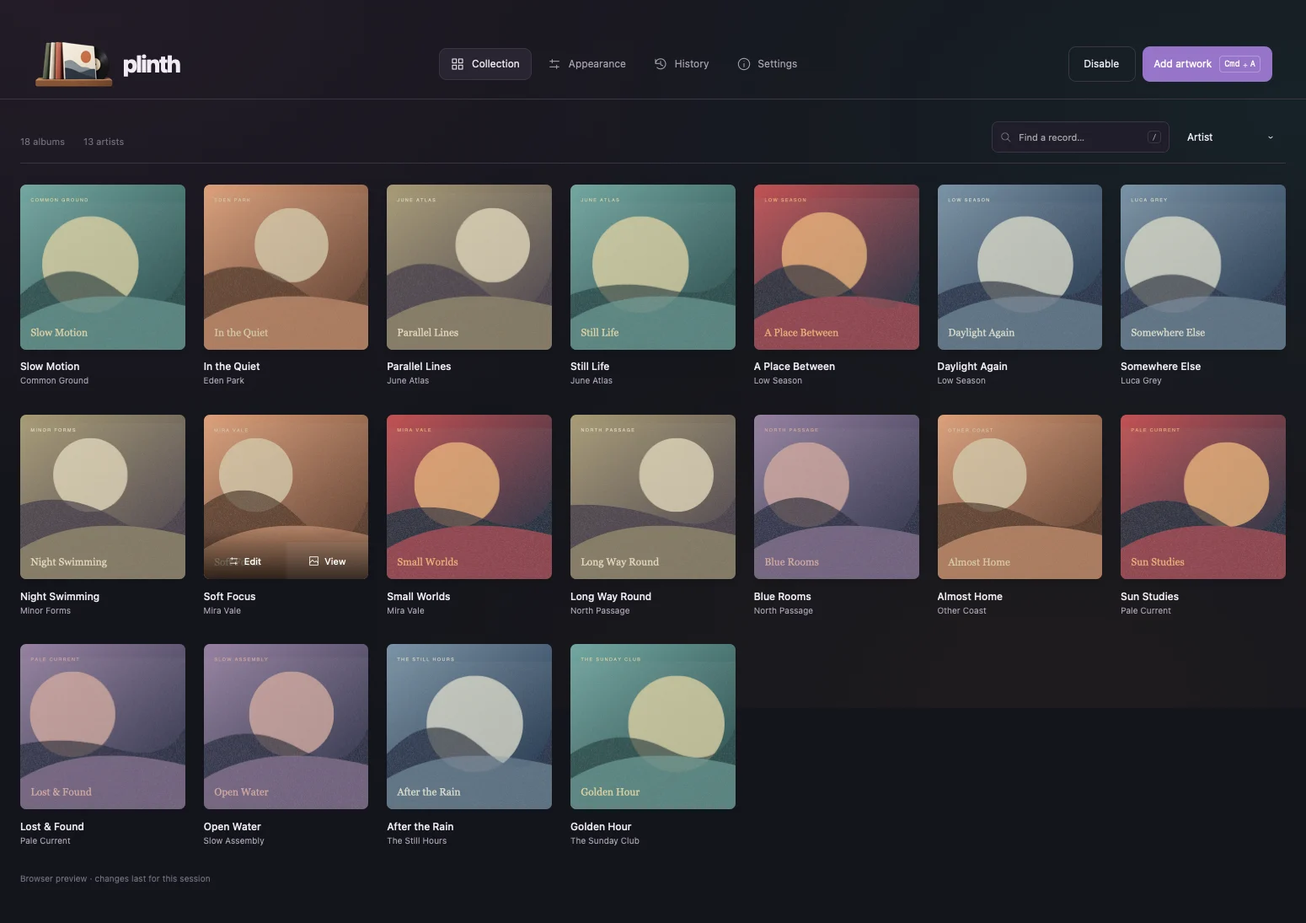
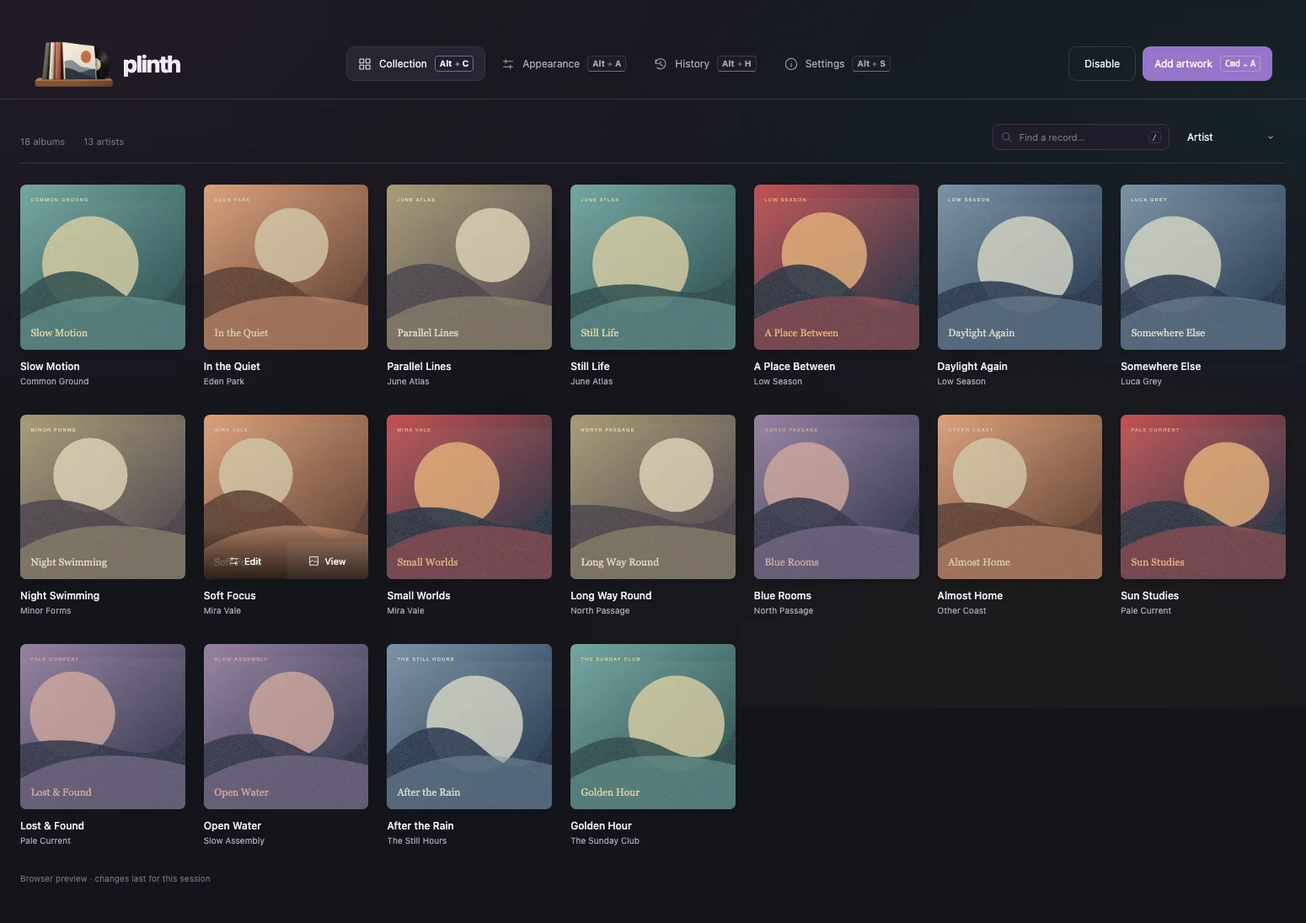
Add Alt letter shortcuts and badges to top navigation

diff --git a/src/app.css b/src/app.css
@@ -1,7 +1,7 @@
 *{box-sizing:border-box} :root{font-family:-apple-system,BlinkMacSystemFont,'Segoe UI',sans-serif;font-size:14px;color-scheme:dark;--background:radial-gradient(ellipse at 5% 0%,#58334d38,transparent 48%),radial-gradient(ellipse at 100% 15%,#28686829,transparent 44%),radial-gradient(ellipse at 80% 100%,#65482d21,transparent 48%),#14151c;--paper:#201d29e6;--paper-strong:#292531;--ink:#f0ebf3;--muted:#aaa1b3;--faint:#726d7e;--line:#3c3547;--accent:#b99ce7;--accent-bg:#9774c9;--danger:#ef9baa}
 :root[data-theme=light]{color-scheme:light;--background:radial-gradient(ellipse at 0% 0%,#efdce9,transparent 55%),radial-gradient(ellipse at 100% 10%,#dcefee,transparent 50%),#f7f5f3;--paper:#fffdfcd9;--paper-strong:#f0ebf1;--ink:#2b2632;--muted:#7f7387;--faint:#93899a;--line:#dfd6e4;--accent:#74509e;--accent-bg:#805ba9;--danger:#a94057}
 body{margin:0;background:var(--background);background-attachment:fixed;color:var(--ink);min-width:360px}button,input,select{font:inherit}button,select{cursor:pointer}button{display:inline-flex;align-items:center;justify-content:center;gap:9px;border:1px solid var(--line);border-radius:9px;background:transparent;color:var(--ink);padding:10px 14px;transition:background .15s,border-color .15s}button:hover:not(:disabled){background:var(--paper-strong);border-color:var(--faint)}button:disabled{opacity:.5;cursor:default}button.primary{background:var(--accent-bg);border-color:transparent;color:#fff}button.primary:hover:not(:disabled){background:color-mix(in srgb,var(--accent-bg) 85%,white)}button.icon-only{width:34px;height:34px;padding:7px;border-color:transparent;background:transparent}button.text-button{padding:0;border:0;color:var(--accent);background:none;font-size:12px}button:focus-visible,a:focus-visible,input:focus-visible,select:focus-visible{outline:1px solid var(--faint);outline-offset:2px}svg{display:block;flex:0 0 auto}h1,h2,h3,p{margin:0}h1{font-size:34px;font-weight:550;letter-spacing:-1.2px;line-height:1.3}h2{font-size:17px;font-weight:550;letter-spacing:-.3px}small{font-size:12px;color:var(--muted)}input,select{border:1px solid var(--line);background:var(--paper);color:var(--ink);border-radius:8px;padding:10px 12px;min-width:0}select{font-size:12px}label{display:grid;gap:8px;font-size:12px}a{color:inherit;text-decoration:none}kbd{font:10px ui-monospace,monospace;padding:3px 5px;border:1px solid var(--line);border-radius:4px;color:var(--muted)}kbd.shortcut{display:inline-flex;align-items:center;gap:3px;white-space:nowrap}.shortcut-plus{opacity:.75;transform:translateY(1.5px)}
-.titlebar{height:34px;padding:0 27px 0 86px;display:flex;align-items:center;justify-content:space-between;color:var(--faint);font-size:10px;letter-spacing:.2px;user-select:none}.local-indicator{display:flex;gap:6px;align-items:center}.local-indicator>span{width:4px;height:4px;border-radius:50%;background:#85b7a0}header{height:84px;border-bottom:1px solid var(--line);display:flex;align-items:center;justify-content:space-between;gap:24px;padding:0 40px}.header-actions{display:flex;align-items:stretch;gap:8px;flex-shrink:0}.header-actions>button{font-size:12px;padding:10px 13px}.brand{display:flex;align-items:center;gap:10px;font-size:28px;font-weight:760;letter-spacing:-1.4px}.brand-mark{--brand-logo-size:40px;display:flex;align-items:center;justify-content:center;flex-shrink:0;width:var(--brand-logo-size);height:40px}.brand-mark[data-logo="logo-1"]{--brand-logo-size:96px}.brand-mark[data-logo="logo-2"]{--brand-logo-size:72px;margin-right:-8px}.brand-mark svg{width:var(--brand-logo-size);height:var(--brand-logo-size);align-self:center}.version{font-size:9px;font-weight:400;letter-spacing:0;color:var(--faint);align-self:start;padding-top:6px}nav{display:flex;gap:5px}nav button{font-size:12px;border-color:transparent;padding:10px 13px;color:var(--muted)}nav button.active{background:var(--paper-strong);border-color:var(--line);color:var(--ink)}nav button svg{width:16px;height:16px}main{max-width:1440px;margin:0 auto;padding:40px 44px 0}.page-heading{display:flex;justify-content:space-between;align-items:center;gap:20px;margin-bottom:36px}.eyebrow{display:block;color:var(--faint);font-size:9px;letter-spacing:1.7px;font-weight:550;margin-bottom:10px}.page-heading p{margin-top:9px;font-size:13px;color:var(--muted);line-height:1.6}.status-pill{font-size:11px;border-radius:22px;padding:9px 13px;background:var(--paper);color:var(--muted);white-space:nowrap}.status-pill svg{width:12px;height:12px;margin-left:5px}.status-dot{width:6px;height:6px;border-radius:50%;background:#83c9ac;box-shadow:0 0 8px #83c9ac22}.paused .status-dot{background:var(--faint)}
+.titlebar{height:34px;padding:0 27px 0 86px;display:flex;align-items:center;justify-content:space-between;color:var(--faint);font-size:10px;letter-spacing:.2px;user-select:none}.local-indicator{display:flex;gap:6px;align-items:center}.local-indicator>span{width:4px;height:4px;border-radius:50%;background:#85b7a0}header{height:84px;border-bottom:1px solid var(--line);display:flex;align-items:center;justify-content:space-between;gap:24px;padding:0 40px}.header-actions{display:flex;align-items:stretch;gap:8px;flex-shrink:0}.header-actions>button{font-size:12px;padding:10px 13px}.brand{display:flex;align-items:center;gap:10px;font-size:28px;font-weight:760;letter-spacing:-1.4px}.brand-mark{--brand-logo-size:40px;display:flex;align-items:center;justify-content:center;flex-shrink:0;width:var(--brand-logo-size);height:40px}.brand-mark[data-logo="logo-1"]{--brand-logo-size:96px}.brand-mark[data-logo="logo-2"]{--brand-logo-size:72px;margin-right:-8px}.brand-mark svg{width:var(--brand-logo-size);height:var(--brand-logo-size);align-self:center}.version{font-size:9px;font-weight:400;letter-spacing:0;color:var(--faint);align-self:start;padding-top:6px}nav{display:flex;gap:5px}nav button{font-size:12px;border-color:transparent;padding:10px 13px;color:var(--muted)}nav button.active{background:var(--paper-strong);border-color:var(--line);color:var(--ink)}nav button>svg{width:16px;height:16px}main{max-width:1440px;margin:0 auto;padding:40px 44px 0}.page-heading{display:flex;justify-content:space-between;align-items:center;gap:20px;margin-bottom:36px}.eyebrow{display:block;color:var(--faint);font-size:9px;letter-spacing:1.7px;font-weight:550;margin-bottom:10px}.page-heading p{margin-top:9px;font-size:13px;color:var(--muted);line-height:1.6}.status-pill{font-size:11px;border-radius:22px;padding:9px 13px;background:var(--paper);color:var(--muted);white-space:nowrap}.status-pill svg{width:12px;height:12px;margin-left:5px}.status-dot{width:6px;height:6px;border-radius:50%;background:#83c9ac;box-shadow:0 0 8px #83c9ac22}.paused .status-dot{background:var(--faint)}
 .collection-toolbar{display:flex;align-items:center;justify-content:space-between;gap:20px;border-bottom:1px solid var(--line);margin-bottom:25px;min-height:52px}.collection-tabs{display:flex;align-items:center;gap:22px;align-self:stretch}.collection-meta{display:flex;align-items:center;font-size:11px;color:var(--faint)}.toolbar-right{display:flex;gap:10px;align-items:center;padding-bottom:10px}.toolbar-right select{border-color:transparent;background:transparent;padding-right:5px}.search{display:flex;align-items:center;gap:8px;border:1px solid var(--line);background:var(--paper);border-radius:7px;padding:0 9px;color:var(--faint)}.search>svg{width:14px;height:14px}.search input{width:145px;border:0;background:none;padding:8px 0;font-size:11px}.search kbd{padding:1px 4px;font-size:9px}.album-grid{display:grid;grid-template-columns:repeat(6,minmax(0,1fr));gap:26px 22px}.album-card{min-width:0;position:relative}.artwork{display:block;position:relative;width:100%;padding:0;border:0;border-radius:7px;background:var(--paper-strong);aspect-ratio:1;box-shadow:0 5px 10px #0002;overflow:hidden;transition:transform .2s,box-shadow .2s}.album-edit:hover .artwork{box-shadow:0 8px 20px #0004}.artwork img{width:100%;height:100%;object-fit:cover;display:block}.album-edit{display:block;width:100%;padding:0;border:0;border-radius:0;text-align:left}.album-edit:hover:not(:disabled){background:transparent}.artwork-edit{position:absolute;bottom:0;left:0;width:50%;height:44px;color:#fff;font-size:11px;display:flex;gap:6px;align-items:center;justify-content:center;opacity:0;transition:opacity .2s;z-index:1}.artwork::after{content:"";position:absolute;inset:auto 0 0;height:60px;background:linear-gradient(transparent,#000b);opacity:0;transition:opacity .2s;pointer-events:none}.artwork-edit svg,.collection-view svg{width:13px;height:13px}.album-card:hover .artwork-edit,.album-card:focus-within .artwork-edit,.album-card:hover .artwork::after,.album-card:focus-within .artwork::after,.album-card:hover .collection-view,.album-card:focus-within .collection-view{opacity:1}.collection-artwork-actions{position:absolute;inset:0 0 auto;aspect-ratio:1;pointer-events:none}.collection-view{position:absolute;bottom:0;right:0;width:50%;height:44px;padding:0;border:0;border-radius:0 0 7px 0;color:#fff;font-size:11px;gap:6px;opacity:0;transition:opacity .2s;pointer-events:auto}.collection-view:hover:not(:disabled){background:#ffffff0d}.album-caption{display:block;min-width:0;padding:11px 0 8px}.album-title{display:block;font-size:12px;font-weight:500;letter-spacing:0;overflow:hidden;text-overflow:ellipsis;white-space:nowrap;line-height:1.5}.album-artist{display:block;color:var(--muted);font-size:10px;margin-top:2px;text-overflow:ellipsis;overflow:hidden;white-space:nowrap}.album-card.disabled img{opacity:.4}.hidden-label{position:absolute;top:8px;left:8px;border-radius:4px;background:#000b;padding:4px 6px;font-size:9px;color:white}.import-strip{display:flex;align-items:center;justify-content:space-between;gap:16px;margin-top:34px;padding:20px 22px;border:1px dashed var(--line);border-radius:10px}.import-copy{display:flex;align-items:center;gap:15px}.folder-mark{display:grid;place-items:center;width:34px;height:34px;border-radius:8px;background:var(--paper-strong);color:var(--accent)}.import-copy strong{font-size:12px;font-weight:500}.import-copy p{font-size:11px;color:var(--muted);margin-top:5px}.import-strip>button{font-size:11px;padding:8px 10px;white-space:nowrap}.import-strip>button svg{width:13px;height:13px}footer{display:flex;align-items:center;justify-content:space-between;gap:20px;padding:25px 0;color:var(--faint);font-size:10px}footer>span:first-child{display:flex;align-items:center;gap:7px}footer svg{width:14px;height:14px}
 .empty-state{min-height:370px;display:flex;flex-direction:column;align-items:center;justify-content:center;text-align:center;gap:18px}.empty-state .eyebrow{margin:0}.empty-state h2{font-size:25px}.empty-state p{font-size:13px;line-height:1.8;color:var(--muted)}.empty-art{width:64px;height:64px;background:var(--paper);border:1px solid var(--line);border-radius:16px;display:grid;place-items:center;color:var(--accent)}.empty-art svg{width:30px;height:30px}.actions{display:flex;gap:10px}.panel{background:var(--paper);border:1px solid var(--line);border-radius:13px;padding:24px}.panel-heading{display:flex;align-items:center;justify-content:space-between;margin-bottom:21px}.appearance-layout{display:grid;grid-template-columns:minmax(0,1.6fr) minmax(310px,1fr);gap:32px}.preview-column{position:sticky;top:25px;align-self:start}.section-label{display:flex;justify-content:space-between;color:var(--faint);font-size:9px;letter-spacing:1px;margin-bottom:16px}.section-label>span:last-child{letter-spacing:0}.monitor-preview{position:relative;border:6px solid #302c38;border-bottom-width:16px;border-radius:14px;background:radial-gradient(ellipse at 15% 10%,#735c6880,transparent 60%),linear-gradient(140deg,#253543,#202128 55%,#514e40);height:350px;overflow:hidden;box-shadow:0 16px 35px #0002}.preview-menubar{display:flex;gap:8px;align-items:center;font-size:7px;color:#ddd;background:#ffffff0a;height:15px;padding:0 7px}.preview-menubar svg{width:9px;height:9px}.preview-clock{margin-left:auto}.preview-art{display:grid;align-content:start;max-height:calc(100% - 15px);overflow:auto}.preview-art img{width:100%;aspect-ratio:1;object-fit:cover;transition:transform .2s;position:relative}.preview-art img:hover{transform:scale(var(--preview-scale));z-index:10}.preview-empty{font-size:12px;color:#bbb;grid-column:1/-1;padding:80px 0;text-align:center}.preview-dock{position:absolute;bottom:6px;left:50%;transform:translateX(-50%);display:flex;gap:6px;padding:5px 7px;border:1px solid #ffffff22;background:#ffffff18;border-radius:8px;backdrop-filter:blur(12px)}.preview-dock>span{display:block;width:18px;height:18px;border-radius:5px;background:#90b1be88}.preview-dock>span:nth-child(2){background:#b48caf88}.preview-dock>span:nth-child(3){background:#b9b19188}.preview-dock>span:nth-child(4){background:#91b9a988}.monitor-foot{width:100px;height:29px;background:linear-gradient(#302c38,#403b46);margin:0 auto;border-radius:0 0 12px 12px;clip-path:polygon(30% 0,70% 0,77% 82%,100% 90%,100% 100%,0 100%,0 90%,23% 82%)}.preview-note{color:var(--muted);font-size:11px;display:flex;align-items:center;justify-content:center;gap:8px;line-height:1.6;margin:22px 0}.preview-note svg{width:14px;height:14px}.feature-note{display:flex;gap:15px;border-top:1px solid var(--line);padding-top:25px;margin-top:32px;color:var(--muted)}.feature-note>svg{color:var(--accent)}.feature-note strong{font-size:12px;font-weight:500;color:var(--ink)}.feature-note p{font-size:12px;line-height:1.8;margin-top:8px;max-width:390px}.segmented{display:flex;border:1px solid var(--line);border-radius:8px;padding:3px;gap:3px;margin-bottom:9px}.segmented button{flex:1;padding:7px 4px;font-size:11px;border:0;border-radius:5px;color:var(--muted)}.segmented button.chosen{background:var(--paper-strong);color:var(--ink)}.field-note{font-size:11px;color:var(--muted);line-height:1.7}.slider-field{margin-top:20px;gap:9px}.slider-field>span{display:flex;justify-content:space-between;font-size:12px}.slider-field output{font:11px ui-monospace,monospace;color:var(--muted)}input[type=range]{width:100%;height:4px;margin:5px 0;padding:0;accent-color:var(--accent);cursor:pointer}.toggle-row{display:flex;align-items:center;justify-content:space-between;gap:20px;margin-top:22px;font-size:12px}.toggle-row small{display:block;font-size:10px;color:var(--muted);margin-top:6px}.switch{appearance:none;flex:0 0 auto;width:32px;height:19px;border-radius:20px;padding:0;background:var(--line);border:0;position:relative;cursor:pointer}.switch:after{content:'';display:block;width:13px;height:13px;border-radius:50%;background:#fff;position:absolute;top:3px;left:3px;transition:transform .15s}.switch:checked{background:var(--accent-bg)}.switch:checked:after{transform:translateX(13px)}.control-divider{border-top:1px solid var(--line);margin-top:26px}.settings-grid{display:grid;grid-template-columns:1fr 1fr;gap:22px}.settings-panel h2{margin-bottom:12px;font-size:20px}.settings-panel>p.description{font-size:13px;line-height:1.85;color:var(--muted);margin-bottom:24px}.setting-row{display:flex;align-items:center;justify-content:space-between;gap:16px;margin:25px 0}.setting-row select{max-width:60%}.storage-summary{display:flex;gap:45px;margin:24px 0 30px;color:var(--muted);font-size:11px}.storage-summary strong{display:block;font-size:30px;color:var(--ink);font-weight:500;letter-spacing:-1px;margin-bottom:6px}.settings-panel>button{font-size:12px;margin-bottom:15px}.shortcut-row{border-top:1px solid var(--line);padding-top:16px;margin-bottom:20px;display:flex;align-items:center;justify-content:space-between;font-size:12px}
 .banner{margin:15px 44px 0;border:1px solid #cf739066;border-radius:8px;padding:10px 14px;font-size:12px;display:flex;align-items:center;justify-content:space-between;gap:16px}.banner.error{color:var(--danger);background:var(--paper)}.banner>span{white-space:pre-wrap;max-height:140px;overflow:auto}.toast{position:fixed;bottom:24px;left:50%;transform:translateX(-50%);z-index:80;padding:13px 18px;border:1px solid var(--line);border-radius:10px;background:var(--paper-strong);box-shadow:0 10px 40px #0004;display:flex;align-items:center;gap:10px;font-size:12px;max-width:90vw}.toast svg{color:#83c9ac}.drop-overlay{position:fixed;inset:8px;z-index:100;border:2px dashed var(--accent);border-radius:15px;background:#211c2bed;backdrop-filter:blur(15px);display:flex;flex-direction:column;align-items:center;justify-content:center;gap:22px;pointer-events:none}.drop-overlay>svg{width:45px;height:45px;color:var(--accent)}.drop-overlay p{color:var(--muted)}.import-progress{position:fixed;bottom:25px;left:50%;transform:translateX(-50%);z-index:90;background:var(--paper-strong);border:1px solid var(--line);border-radius:10px;padding:15px 22px;font-size:12px;display:flex;gap:12px;align-items:center}.import-progress>span{width:13px;height:13px;border-radius:50%;border:2px solid var(--line);border-top-color:var(--accent);animation:spin 1s linear infinite}@keyframes spin{to{transform:rotate(360deg)}}.visually-hidden{position:absolute;width:1px;height:1px;clip-path:inset(50%);overflow:hidden;white-space:nowrap}
@@ -46,3 +46,5 @@ dialog{width:min(510px,calc(100vw - 40px));padding:26px;border:1px solid var(--l
 
 /* Isolate the enlarged preview artwork without promoting the entire collection. */
 .preview-render .desktop-cover.enlarged{will-change:transform}
+
+nav button .shortcut{min-width:30px;padding:0 5px;border-bottom-color:var(--faint);background:color-mix(in srgb,var(--paper) 72%,transparent);font-family:inherit;font-size:10px;font-weight:700;line-height:17px;justify-content:center}nav button.active .shortcut{border-color:color-mix(in srgb,var(--accent) 50%,var(--line));color:inherit}nav button .shortcut-plus{transform:none}@media(max-width:1100px){header{flex-wrap:wrap;height:auto;padding-block:18px}header nav{order:3;width:100%;justify-content:center}}@media(max-width:600px){header nav{flex-wrap:wrap}nav button{padding:8px}}

diff --git a/src/App.svelte b/src/App.svelte
@@ -19,6 +19,7 @@
  let sortOpen=false
  const sortOptions=[{value:'artist',label:'Artist'},{value:'title',label:'Title'},{value:'date',label:'Newest date'},{value:'oldest',label:'Oldest date'},{value:'shuffle',label:'Shuffle'}]
  function chooseSort(value:string){library.settings.sort=value;if(value==='shuffle'){const next=new Uint32Array(1);do{crypto.getRandomValues(next)}while(next[0]===library.settings.shuffleSeed);library.settings.shuffleSeed=next[0]}sortOpen=false;persist()}
+ const tabs=[{id:'collection',label:'Collection',icon:'grid',key:'C'},{id:'appearance',label:'Appearance',icon:'settings',key:'A'},{id:'history',label:'History',icon:'history',key:'H'},{id:'settings',label:'Settings',icon:'info',key:'S'}]
  let page='collection',query='',busy=false,loaded=false,error='',notice='',dragging=false
  let history:HistoryView=emptyHistory,historyBusy=false,historyLoading=false
  let historyRequest=0
@@ -170,7 +171,7 @@
 </script>
 
  <svelte:head><link rel="icon" type="image/png" href={logoUrl(settings.logo)}/><link rel="apple-touch-icon" href={logoUrl(settings.logo)}/></svelte:head>
- <svelte:window onpointerup={stopHoverPreview} onpointercancel={stopHoverPreview} onblur={stopHoverPreview} onpointerdown={(e)=>{beginAppearanceDrag(e);if(!(e.target instanceof Element)||!e.target.closest('.sort-picker'))sortOpen=false}} onkeydown={(e)=>{if(desktop)return;if(quitDialog?.open){if(e.repeat){e.preventDefault();return}if((e.metaKey||e.ctrlKey)&&e.key.toLowerCase()==='q'){e.preventDefault();void quitApp()}else if((e.metaKey||e.ctrlKey)&&e.key.toLowerCase()==='w'){e.preventDefault();void hideWindow()}else if(e.key==='Escape'){e.preventDefault();quitDialog.close()}return}if(e.repeat&&(e.metaKey||e.ctrlKey)&&e.key.toLowerCase()==='q'){e.preventDefault();return}if(e.key==='Escape'&&sortOpen){sortOpen=false;return}if(e.altKey&&!e.metaKey&&!e.ctrlKey&&(e.code==='KeyQ'||e.code==='KeyW')){if(modal?.open||quitDialog?.open)return;e.preventDefault();const pages=['collection','appearance','history','settings'];page=pages[(pages.indexOf(page)+(e.code==='KeyQ'?-1:1)+pages.length)%pages.length];return}if((e.metaKey||e.ctrlKey)&&e.key.toLowerCase()==='q'){e.preventDefault();showQuit();return}if((e.metaKey||e.ctrlKey)&&e.key.toLowerCase()==='w'){e.preventDefault();void hideWindow();return}if(gallery?.open){if(e.key==='Escape'){e.preventDefault();closeGallery()}return}if(modal?.open&&e.key==='Enter'&&!e.isComposing&&!e.metaKey&&!e.ctrlKey&&!e.altKey&&!e.shiftKey&&!confirmRemove){e.preventDefault();if(!e.repeat&&!saving&&!replacing)editorForm.requestSubmit();return}if((e.metaKey||e.ctrlKey)&&!e.altKey&&e.key.toLowerCase()==='z'&&!modal?.open&&!editingText(e.target)){e.preventDefault();if(!e.repeat)void moveHistory(e.shiftKey?'redo':'undo');return}if((e.metaKey||e.ctrlKey)&&e.key.toLowerCase()==='a'&&page==='collection'&&!modal?.open&&!(e.target instanceof Element&&e.target.closest('input,textarea,[contenteditable]'))){e.preventDefault();if(!e.repeat&&!busy)void choose();return}if(e.key==='/' && !(e.target instanceof HTMLInputElement) && !(e.target instanceof HTMLSelectElement)){e.preventDefault();document.querySelector<HTMLInputElement>('.search input')?.focus()}if((e.metaKey||e.ctrlKey)&&e.key==='o'){e.preventDefault();void choose()}if(e.key==='Escape'){if(quitDialog?.open)quitDialog.close();else closeEditor()}}}/>
+ <svelte:window onpointerup={stopHoverPreview} onpointercancel={stopHoverPreview} onblur={stopHoverPreview} onpointerdown={(e)=>{beginAppearanceDrag(e);if(!(e.target instanceof Element)||!e.target.closest('.sort-picker'))sortOpen=false}} onkeydown={(e)=>{if(desktop)return;if(quitDialog?.open){if(e.repeat){e.preventDefault();return}if((e.metaKey||e.ctrlKey)&&e.key.toLowerCase()==='q'){e.preventDefault();void quitApp()}else if((e.metaKey||e.ctrlKey)&&e.key.toLowerCase()==='w'){e.preventDefault();void hideWindow()}else if(e.key==='Escape'){e.preventDefault();quitDialog.close()}return}if(e.repeat&&(e.metaKey||e.ctrlKey)&&e.key.toLowerCase()==='q'){e.preventDefault();return}if(e.key==='Escape'&&sortOpen){sortOpen=false;return}if(e.altKey&&!e.metaKey&&!e.ctrlKey&&!e.shiftKey&&!e.isComposing&&!editingText(e.target)&&!modal?.open&&!gallery?.open){const tab=tabs.find(tab=>e.code==='Key'+tab.key);if(tab){e.preventDefault();sortOpen=false;page=tab.id;return}}if(e.altKey&&!e.metaKey&&!e.ctrlKey&&(e.code==='KeyQ'||e.code==='KeyW')){if(modal?.open||quitDialog?.open)return;e.preventDefault();const pages=['collection','appearance','history','settings'];page=pages[(pages.indexOf(page)+(e.code==='KeyQ'?-1:1)+pages.length)%pages.length];return}if((e.metaKey||e.ctrlKey)&&e.key.toLowerCase()==='q'){e.preventDefault();showQuit();return}if((e.metaKey||e.ctrlKey)&&e.key.toLowerCase()==='w'){e.preventDefault();void hideWindow();return}if(gallery?.open){if(e.key==='Escape'){e.preventDefault();closeGallery()}return}if(modal?.open&&e.key==='Enter'&&!e.isComposing&&!e.metaKey&&!e.ctrlKey&&!e.altKey&&!e.shiftKey&&!confirmRemove){e.preventDefault();if(!e.repeat&&!saving&&!replacing)editorForm.requestSubmit();return}if((e.metaKey||e.ctrlKey)&&!e.altKey&&e.key.toLowerCase()==='z'&&!modal?.open&&!editingText(e.target)){e.preventDefault();if(!e.repeat)void moveHistory(e.shiftKey?'redo':'undo');return}if((e.metaKey||e.ctrlKey)&&e.key.toLowerCase()==='a'&&page==='collection'&&!modal?.open&&!(e.target instanceof Element&&e.target.closest('input,textarea,[contenteditable]'))){e.preventDefault();if(!e.repeat&&!busy)void choose();return}if(e.key==='/' && !(e.target instanceof HTMLInputElement) && !(e.target instanceof HTMLSelectElement)){e.preventDefault();document.querySelector<HTMLInputElement>('.search input')?.focus()}if((e.metaKey||e.ctrlKey)&&e.key==='o'){e.preventDefault();void choose()}if(e.key==='Escape'){if(quitDialog?.open)quitDialog.close();else closeEditor()}}}/>
 {#if desktop}
  <Desktop {library}/>
 {:else}
@@ -180,10 +181,9 @@
   <header>
    <a class="brand" href="/" onclick={(e)=>{e.preventDefault();page='collection'}}><span class="brand-mark" data-logo={settings.logo}><Logo logo={settings.logo}/></span>plinth</a>
    <nav aria-label="Main navigation">
-    <button class:active={page==='collection'} onclick={()=>page='collection'}><Icon name="grid"/>Collection</button>
-    <button class:active={page==='appearance'} onclick={()=>page='appearance'}><Icon name="settings"/>Appearance</button>
-    <button class:active={page==='history'} onclick={()=>page='history'}><Icon name="history"/>History</button>
-    <button class:active={page==='settings'} onclick={()=>page='settings'}><Icon name="info"/>Settings</button>
+    {#each tabs as tab}
+     <button class:active={page===tab.id} title={tab.label+' (Alt+'+tab.key+')'} aria-keyshortcuts={'Alt+'+tab.key} onclick={()=>page=tab.id}><Icon name={tab.icon}/><span>{tab.label}</span><Shortcut keys={['Alt',tab.key]}/></button>
+    {/each}
    </nav>
    <div class="header-actions"><button class="desktop-toggle" onclick={()=>{settings.desktopEnabled=!settings.desktopEnabled;persist()}}>{settings.desktopEnabled?'Disable':'Enable'}</button><button class="primary add-artwork" aria-label={busy?'Importing…':'Add artwork'} aria-keyshortcuts={page==='collection'?'Meta+A Control+A':undefined} onclick={()=>choose()} disabled={busy}>{busy?'Importing…':'Add artwork'}{#if page==='collection'&&!busy}<Shortcut keys={['Cmd','A']}/>{/if}</button></div>
   </header>

diff --git a/tests/tab-shortcuts.spec.ts b/tests/tab-shortcuts.spec.ts
@@ -1,0 +1,34 @@
+import { test, expect } from '@playwright/test'
+
+test('tab shortcuts use physical letters and respect text fields, modifiers and dialogs',async({page})=>{
+ await page.goto('/?demo=1')
+ const nav=page.getByRole('navigation',{name:'Main navigation'})
+ const active=(name:string)=>expect(nav.getByRole('button',{name,exact:true})).toHaveClass('active')
+ for(const [name,key] of [['Appearance','A'],['History','H'],['Settings','S'],['Collection','C']]){
+  const button=nav.getByRole('button',{name,exact:true})
+  await expect(button).toHaveAttribute('aria-keyshortcuts','Alt+'+key)
+  await expect(button.locator('kbd')).toBeVisible()
+  // macOS Option can change event.key into a symbol; event.code stays the letter.
+  await page.evaluate(key=>window.dispatchEvent(new KeyboardEvent('keydown',{key:'å',code:'Key'+key,altKey:true,bubbles:true})),key)
+  await active(name)
+ }
+ const search=page.getByRole('searchbox')
+ await search.focus();await page.keyboard.press('Alt+KeyA');await active('Collection')
+ await search.blur()
+ for(const shortcut of ['Alt+Shift+KeyA','Control+Alt+KeyA','Meta+Alt+KeyA']){
+  await page.keyboard.press(shortcut);await active('Collection')
+ }
+ await page.getByRole('button',{name:'View Soft Focus artwork',exact:true}).click()
+ await page.keyboard.press('Alt+KeyA');await active('Collection')
+ await expect(page.locator('.artwork-gallery')).toBeVisible()
+ await page.keyboard.press('Escape')
+ await page.getByRole('button',{name:'Edit Soft Focus',exact:true}).click()
+ await page.getByRole('button',{name:'Close album editor'}).focus()
+ await page.keyboard.press('Alt+KeyH');await active('Collection')
+ await page.keyboard.press('Escape')
+ await page.keyboard.press('Control+q');await page.keyboard.press('Alt+KeyS');await active('Collection')
+ await page.keyboard.press('Escape')
+ await page.keyboard.press('Alt+KeyS');await active('Settings')
+ await page.keyboard.press('Alt+KeyW');await active('Collection')
+ await page.keyboard.press('Alt+KeyQ');await active('Settings')
+})

diff --git a/tests/history.spec.ts b/tests/history.spec.ts
@@ -5,7 +5,7 @@ const historyPage=async(page:import('@playwright/test').Page)=>{await page.getBy
 
 test('History sits between Appearance and Settings and saves full metadata states',async({page})=>{
  await page.goto('/?demo=1')
- await expect(page.getByRole('navigation',{name:'Main navigation'}).getByRole('button')).toHaveText(['Collection','Appearance','History','Settings'])
+ await expect(page.getByRole('navigation',{name:'Main navigation'}).getByRole('button').locator(':scope > span')).toHaveText(['Collection','Appearance','History','Settings'])
  await historyPage(page)
  await expect(page.locator('.history-list>li')).toHaveCount(1)
  await expect(page.getByRole('button',{name:'Undo',exact:true})).toBeDisabled()

diff --git a/AGENTS.md b/AGENTS.md
@@ -31,7 +31,7 @@
 - Show a Dock icon while the main window is visible; hide it when the window closes. Command-W keeps the desktop running. Command-Q opens a Cancel / Hide window / Quit Plinth modal, with Hide window in the middle. Focus the heading initially, not an action; use no default button or purple focus outline.
 - Left-click the menu bar icon opens the window; right-click opens its menu. Keep “Hide desktop” / “Show desktop” in the menu. In the app header, place an Enable / Disable button immediately before Add artwork, synchronized to the same saved desktop state.
 - Original artwork in the modal is large, with two subtle hover actions across its bottom edge. Disable dragging internal images; accept external image drops.
-- Option-Q / Option-W navigate pages with wraparound. Remember the main window size; keep the collection full-width with modest gutters.
+- Top tabs show compact bordered Alt shortcut badges using the shared Shortcut component: C for Collection, A for Appearance, H for History, S for Settings. Use physical key codes for macOS Option compatibility and leave text fields and open dialogs alone. Option-Q / Option-W navigate pages with wraparound. Remember the main window size; keep the collection full-width with modest gutters.
 
 - Collection cards edit from artwork, captions, and caption spacing; bottom artwork actions are Edit and View. View opens the original gallery directly. Keep the gallery cursor normal and return to the prior view on any click (including the image) or Escape.
 - Command-A adds artwork from Collection except inside text fields. Add artwork shows a Cmd + A hint on Collection, with an SVG plus between the keys and no leading icon. Build every keyboard hint with the shared `Shortcut` component, which renders each key with an SVG plus between them. Enter saves anywhere in the album editor; preserve gallery and quit-dialog keyboard behavior. Label the button Save with an Enter hint.

diff --git a/README.md b/README.md
@@ -42,7 +42,7 @@ Space between rows defaults to **Auto**, which balances the gap below the menu b
 
 The desktop is a transparent native window above the wallpaper and desktop icons, below ordinary windows. It receives clicks and does not scroll. Cover width and height use the same calculated size, so increasing cover spacing shrinks square covers. Incomplete rows are centered; use the Columns setting to fit more covers on screen. Covers enlarge without activating Plinth; this does not draw over your foreground apps. Restart Plinth after changing monitor arrangements. Add Plinth in **System Settings → General → Login Items** if you want it to start at login.
 
-Option-Q and Option-W move to the previous or next page, wrapping at either end. Window size is remembered when you close or quit; new installations open at 1550 × 840 points.
+Alt-C, Alt-A, Alt-H, and Alt-S open Collection, Appearance, History, and Settings (use Option on Mac). The tab buttons show these shortcuts. Option-Q and Option-W move to the previous or next page, wrapping at either end. Window size is remembered when you close or quit; new installations open at 1550 × 840 points.
 
 ## Local data and backups
 
